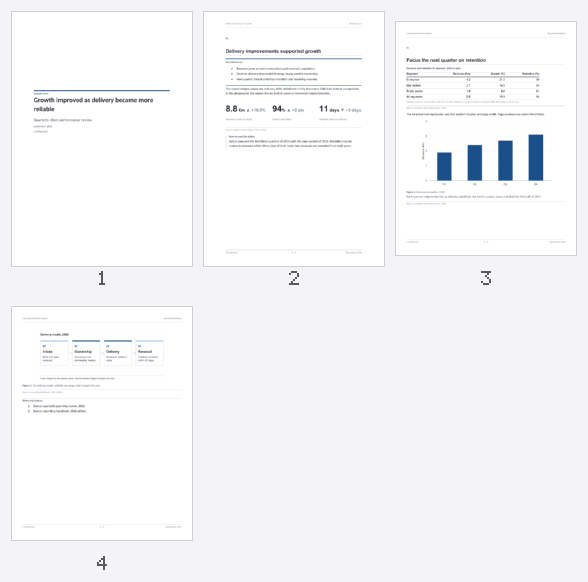
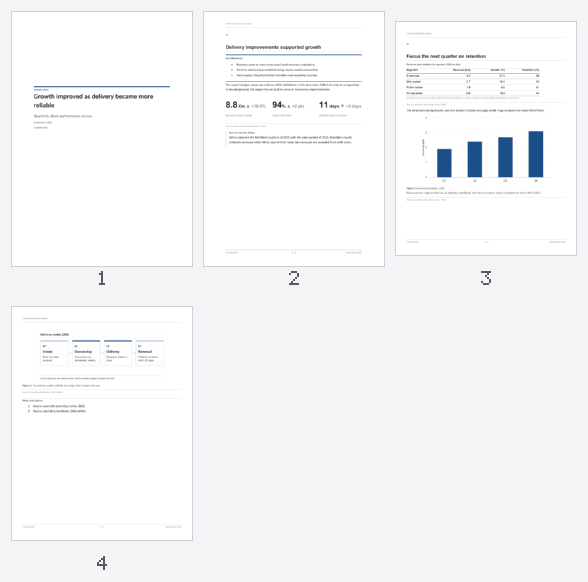
feat(docx): sections under a running head continue on the page; running head carries the title only
A section that inherits a block's header and footer no longer inherits its
page break: only the declaring section (after the cover) starts a new page,
an authored pageBreak still breaks. The running-head block drops its tracker
slot and heads every page with the document title; section-opener drops its
tracker slot and effect; the client-report blueprint stops scaffolding
{{Tracker}} markers. Goldens for the two report-chrome corpus cases move.

diff --git a/packages/core-docx/src/blocks/__tests__/report-chrome.test.ts b/packages/core-docx/src/blocks/__tests__/report-chrome.test.ts
@@ -2,8 +2,8 @@
  * The report's architecture — `cover`, `section-opener` and `running-head`
  * from the playground template — proven end to end: bounded slots reported as
  * coded issues, a cover and three openers under one running head generated
- * warning-clean on every bundled theme with the tracker following each
- * opener, and the same report rendered through LibreOffice so the tracker
+ * warning-clean on every bundled theme with the title on every page after
+ * the cover, and the same report rendered through LibreOffice so the header
  * and the `n / N` field are read off every page rather than out of the XML.
  *
  * The rendered part skips itself when LibreOffice is not on PATH;
@@ -19,8 +19,6 @@ import { promisify } from 'node:util';
 import { validateDocument } from '@json-to-office/shared-docx';
 import { generateBufferWithWarnings } from '../../core/generator';
 import { analyzeDocxQuality } from '../../quality/preflight';
-import { expandBlocks } from '../index';
-import { consultingTheme } from '../../styles';
 import { block, example, on, para, section } from './example';
 import {
   findLibreOffice,
@@ -60,7 +58,6 @@ const report = (theme: Theme) => {
       block('section-opener', {
         number: '01',
         title: 'The year in one page',
-        tracker: TRACKERS[0],
       }),
       para('Summary body.')
     ),
@@ -68,7 +65,6 @@ const report = (theme: Theme) => {
       block('section-opener', {
         number: '02',
         title: 'Results by region',
-        tracker: TRACKERS[1],
       }),
       para('Results body.')
     ),
@@ -76,7 +72,6 @@ const report = (theme: Theme) => {
       block('section-opener', {
         number: '03',
         title: 'What to do next year',
-        tracker: TRACKERS[2],
       }),
       para('Outlook body.')
     ),
@@ -123,7 +118,7 @@ describe('the report architecture blocks', () => {
       }),
       block('running-head', {
         pageNumbers: 'yes',
-        tracker: 'one two three four five six seven',
+        title: 'one two three four five six seven',
       }),
       block('section-opener', { number: 'one two three four' })
     );
@@ -138,24 +133,15 @@ describe('the report architecture blocks', () => {
         at(`${cover}/subtitle`, 'block_slot_budget'),
         at(`${cover}/logo`, 'block_slot_type'),
         at(`${head}/pageNumbers`, 'block_slot_type'),
-        at(`${head}/tracker`, 'block_slot_budget'),
+        at(`${head}/title`, 'block_slot_budget'),
         at(`${opener}/title`, 'block_required_slot'),
         at(`${opener}/number`, 'block_slot_budget'),
       ])
     );
   });
 
-  it('lets an opener without a tracker fall back to its title', () => {
-    const doc = report('consulting');
-    delete doc.children[2].children[0].props.slots.tracker;
-    const expanded = expandBlocks(doc, consultingTheme);
-    expect(expanded.document.children[2].props.header[0].props.text).toBe(
-      'Annual review\tResults by region'
-    );
-  });
-
   describe.each(THEMES)('on the %s theme', (theme) => {
-    it('generates a cover and three openers under one running head, warning-clean, the tracker following each opener', async () => {
+    it('generates a cover and three openers under one running head, warning-clean, the title on every section after the cover', async () => {
       const doc = report(theme);
       expect(validateDocument(doc).errors).toEqual([]);
       const { buffer, warnings } = await generateBufferWithWarnings(doc);
@@ -172,17 +158,18 @@ describe('the report architecture blocks', () => {
         footer: undefined,
       });
       expect(sections.slice(1).map((s) => s.header)).toEqual(
-        TRACKERS.map((tracker) => `Annual review\t${tracker}`)
+        TRACKERS.map(() => 'Annual review')
       );
       for (const { footer } of sections.slice(1)) {
         expect(footer).toMatch(
           /^Confidential\t.*\bPAGE\b.*\/.*\bNUMPAGES\b.*\tSeptember 2026$/s
         );
       }
-      // A header belongs to the page a section starts on, so every section
-      // under the running head starts a new page.
-      expect(sections.slice(1).map((s) => s.type)).toEqual(
-        TRACKERS.map(() => 'nextPage')
+      // The running head starts its section on a new page after the cover;
+      // the sections that inherit it continue on the page.
+      expect(sections[1].type).toBe('nextPage');
+      expect(sections.slice(2).map((s) => s.type)).toEqual(
+        TRACKERS.slice(1).map(() => 'continuous')
       );
     });
   });
@@ -194,7 +181,7 @@ requireIfInsisted(Boolean(soffice), 'a LibreOffice binary on PATH');
 requireIfInsisted(pdftotext, 'pdftotext');
 
 describe.skipIf(!soffice || !pdftotext)('rendered through LibreOffice', () => {
-  it('paints each section’s tracker and n / N on its own page, on every theme, and nothing on the cover', async () => {
+  it('paints the title and n / N on every page after the cover, with the sections flowing, on every theme', async () => {
     const dir = await mkdtemp(join(tmpdir(), 'jto-report-chrome-'));
     try {
       for (const theme of THEMES) {
@@ -220,7 +207,8 @@ describe.skipIf(!soffice || !pdftotext)('rendered through LibreOffice', () => {
         const pages = (await readFile(txt, 'utf8'))
           .replace(/\f$/, '')
           .split('\f');
-        expect(pages, theme).toHaveLength(4);
+        // Three one-paragraph sections share the page after the cover.
+        expect(pages, theme).toHaveLength(2);
         const [cover, ...body] = pages;
         expect(cover, theme).toContain('Growth improved');
         expect(cover, theme).not.toContain('Annual review');
@@ -230,10 +218,17 @@ describe.skipIf(!soffice || !pdftotext)('rendered through LibreOffice', () => {
           expect(page, label).toContain('Annual review');
           expect(page, label).toContain('Confidential');
           expect(page, label).toContain('September 2026');
-          expect(page, label).toContain(TRACKERS[i]);
-          expect(page, label).toMatch(new RegExp(`\\b${i + 2}\\s*/\\s*4\\b`));
-          for (const other of TRACKERS.filter((t) => t !== TRACKERS[i]))
-            expect(page, label).not.toContain(other);
+          expect(page, label).toMatch(new RegExp(`\\b${i + 2}\\s*/\\s*2\\b`));
+          // Letter-spaced display headings (vermilion) come out of pdftotext
+          // with spaces inside words, so compare without whitespace.
+          for (const title of [
+            'The year in one page',
+            'Results by region',
+            'What to do next year',
+          ])
+            expect(page.replace(/\s+/g, ''), label).toContain(
+              title.replace(/\s+/g, '')
+            );
         });
       }
     } finally {

diff --git a/packages/core-docx/src/blocks/__tests__/json-blocks.test.ts b/packages/core-docx/src/blocks/__tests__/json-blocks.test.ts
@@ -127,20 +127,18 @@ describe('JSON report blocks from playground templates', () => {
         .map((v: any) => v.props.text)
     ).toEqual(['', 'Only the title']);
   });
-  it('applies section trackers, inherited chrome and each section’s page width', () => {
+  it('inherits chrome and each section’s page width; only the declaring section breaks the page', () => {
     const expanded = expandBlocks(example(), consultingTheme);
     expect(expanded.document.children[0].props.header).toBeUndefined();
     const report = expanded.document.children[1];
     const letter = expanded.document.children[2];
-    expect(report.props.header[0].props.text).toBe(
-      'Client performance report\tPerformance'
-    );
-    expect(letter.props.header[0].props.text).toBe(
-      'Client performance report\tRecommendations'
-    );
-    expect(letter.props.header[0].props.tabStops[0].position).toBe(10800);
+    expect(report.props.header[0].props.text).toBe('Client performance report');
+    expect(letter.props.header[0].props.text).toBe('Client performance report');
     expect(letter.props.footer[1].props.tabStops[0].position).toBe(5400);
-    expect(letter.props.pageBreak).toBe(true);
+    // The running head starts its own section on a new page (after the
+    // cover); a section that merely inherits it continues on the page.
+    expect(report.props.pageBreak).toBe(true);
+    expect(letter.props.pageBreak).toBeUndefined();
   });
   it('honors authored section parts and page breaks', () => {
     const input = example();
@@ -188,7 +186,7 @@ describe('JSON report blocks from playground templates', () => {
       .join('');
     expect(main).toContain('Growth improved');
     expect(main).toContain('Heading1');
-    expect(headers).toContain('Recommendations');
+    expect(headers).toContain('Client performance report');
     expect(footers).toContain('PAGE');
     expect(footers).toContain('NUMPAGES');
   });

diff --git a/packages/core-docx/src/__tests__/fixtures/corpus-blocks.ts b/packages/core-docx/src/__tests__/fixtures/corpus-blocks.ts
@@ -152,10 +152,10 @@ export const CASES: CorpusCase[] = [
   // --------------------------------------------------------------------------
   {
     // A cover in its own section, then two sections under one running head:
-    // the tracker follows each opener, the footer carries n / N and the date,
-    // and the cover section stays chrome-free. Every value is the house
-    // recipe's: display title over a 3pt accent rule, tracker role in the
-    // header, footer role in the footer, hairlines in `rule`.
+    // the title heads every page, the sections flow, the footer carries n / N
+    // and the date, and the cover section stays chrome-free. Every value is
+    // the house recipe's: display title over a 3pt accent rule, tracker role
+    // in the header, footer role in the footer, hairlines in `rule`.
     name: 'blocks/report-chrome-consulting',
     document: doc(
       [
@@ -210,7 +210,6 @@ export const CASES: CorpusCase[] = [
               slots: {
                 number: '02',
                 title: 'Results by region',
-                tracker: 'Results',
               },
             },
           },
@@ -271,7 +270,6 @@ export const CASES: CorpusCase[] = [
           props: {
             ref: 'running-head',
             slots: {
-              tracker: 'Appendix',
               pageNumbers: false,
               confidentiality: 'Internal',
             },

diff --git a/packages/core-docx/src/blocks/document.ts b/packages/core-docx/src/blocks/document.ts
@@ -256,6 +256,12 @@ function finishDocxBlocks<T>(
         ? { ...section.props }
         : {};
       if (chrome) {
+        // A following section inherits the header and footer, not the page
+        // break: the running head belongs to every page, the break only to
+        // the section that declared it (after a cover). Sections under one
+        // running head continue on the page unless the theme or the author
+        // breaks them.
+        const declaring = local.includes(chrome);
         const environment = {
           ...chrome.environment,
           context: {
@@ -278,7 +284,7 @@ function finishDocxBlocks<T>(
           );
           props[part] = evaluator.expand(compiled, `${path}/props/${part}`);
         }
-        if (props.pageBreak === undefined)
+        if (props.pageBreak === undefined && declaring)
           props.pageBreak = chrome.settings.pageBreak ?? true;
       }
       // A local explicit state-setting page break is useful without any chrome.

diff --git a/packages/core-docx/src/__tests__/fixtures/corpus-goldens.ts b/packages/core-docx/src/__tests__/fixtures/corpus-goldens.ts
@@ -27,9 +27,9 @@ export const CORPUS_GOLDENS: Readonly<Record<string, string>> = {
   'blocks/report-data-fallback':
[1 lines of base64/hex data omitted]
   'blocks/report-chrome-fallback':
[2 lines of base64/hex data omitted]
   'blocks/report-chrome-consulting':
[2 lines of base64/hex data omitted]
   'blocks/key-takeaways-fallback':
[1 lines of base64/hex data omitted]
   'blocks/key-takeaways-consulting':

diff --git a/packages/core-docx/src/quality/rules.ts b/packages/core-docx/src/quality/rules.ts
@@ -946,7 +946,7 @@ export const docxRunningHeadRule: QualityRule<
               `${profile?.id ?? 'selected'} profile expects a running head ` +
               `on every section after the cover.`,
             suggestion:
-              'Invoke a running-head block at the top of the first body section: its section effect fills every later section with the tracker and n / N.',
+              'Invoke a running-head block at the top of the first body section: its section effect fills every later section with the title and n / N.',
             context: { section: fact.index, missing },
           },
         ];

diff --git a/docs/reference/blocks.md b/docs/reference/blocks.md
@@ -120,7 +120,7 @@ DOCX repetition adapts content through ordinary flow/columns without shrinking t
 
 A DOCX definition may declare `section: { tracker?, header?, footer?, pageBreak?, scope? }`. Author invocations with section effects directly in a top-level section body. Nested composition may pass through transparent groups, but cannot install section state from columns, table cells or header/footer regions.
 
-The engine resolves local trackers before chrome. `scope: "following"` carries the declared header/footer effect to later sections; default scope is local. Header/footer bindings see the receiving section’s page dimensions and `/section/tracker`, while retaining the declaring invocation’s slots. Last local tracker/chrome declaration wins. Explicit section `header`, `footer` and `pageBreak` take precedence. Chrome defaults to a section page break; explicit `false` remains respected. Existing `{PAGE}` / `{NUMPAGES}` paragraph fields stay native Word fields.
+The engine resolves local trackers before chrome. `scope: "following"` carries the declared header/footer effect to later sections; default scope is local. Header/footer bindings see the receiving section’s page dimensions and `/section/tracker`, while retaining the declaring invocation’s slots. Last local tracker/chrome declaration wins. Explicit section `header`, `footer` and `pageBreak` take precedence. The declaring section defaults to a page break; a section that inherits chrome does not, so sections under one running head continue on the page unless the theme or the author breaks them (a header can only change at a page boundary, so chrome that varies per section needs `pageBreak: true` on each). Existing `{PAGE}` / `{NUMPAGES}` paragraph fields stay native Word fields.
 
 The playground demonstrates `cover`, `key-takeaways`, `section-opener`, `running-head`, `kpi-row`, `callout`, `data-table`, `chart-figure`, `figure`, `footnotes` and the `source-line` the data and figure blocks invoke. These are names in that document, not registered engine components. General document operations remain engine code; visual compositions remain JSON.
 
@@ -128,14 +128,14 @@ A [blueprint](/reference/blueprints) assembles these invocations into a whole-do
 
 ### The report blocks
 
-Every definition in `client-report-blocks.docx.json` binds its sizes and colours to the theme's type roles and chrome recipes with a safe default, so the same JSON renders on every bundled theme; the previews below are the house theme, rendered through LibreOffice. A report built from a cover, three section openers and one running head is generated on all four bundled themes in the test suite, warning-clean, and rendered through LibreOffice where one is installed: every page after the cover carries its own section's tracker and a live `n / N`, and the cover carries neither.
+Every definition in `client-report-blocks.docx.json` binds its sizes and colours to the theme's type roles and chrome recipes with a safe default, so the same JSON renders on every bundled theme; the previews below are the house theme, rendered through LibreOffice. A report built from a cover, three section openers and one running head is generated on all four bundled themes in the test suite, warning-clean, and rendered through LibreOffice where one is installed: every page after the cover carries the document title and a live `n / N`, the sections flow onto one another, and the cover carries neither.
 
 | Block            | Slots                                                                                                                                     | What the definition decides                                                                                                                                                                                                                                                                                                                                           |
 | ---------------- | ----------------------------------------------------------------------------------------------------------------------------------------- | --------------------------------------------------------------------------------------------------------------------------------------------------------------------------------------------------------------------------------------------------------------------------------------------------------------------------------------------------------------------- |
 | `cover`          | title, subtitle, client, date, confidentiality, logo                                                                                      | The cover recipe's rule about a third of the way down the page (22% of the body height, after the logo when there is one); the client in the eyebrow role, the title in display, subtitle, then date and confidentiality in the label role, each absent when its slot is                                                                                              |
 | `key-takeaways`  | label, items 3–5 of ≤ 25 words                                                                                                            | The key-takeaways recipe's rule, label role, hairline                                                                                                                                                                                                                                                                                                                 |
-| `section-opener` | number, title, tracker                                                                                                                    | Eyebrow number, a real level-1 heading, the section tracker the running head reads                                                                                                                                                                                                                                                                                    |
-| `running-head`   | title ≤ 6 words, tracker ≤ 3, confidentiality ≤ 4, date ≤ 3, pageNumbers                                                                  | Header `title · tracker` and footer `confidentiality · n / N · date` in the tracker and footer roles, inherited by later sections                                                                                                                                                                                                                                     |
+| `section-opener` | number, title                                                                                                                             | Eyebrow number and a real level-1 heading                                                                                                                                                                                                                                                                                                                             |
+| `running-head`   | title ≤ 6 words, confidentiality ≤ 4, date ≤ 3, pageNumbers                                                                               | Header `title` and footer `confidentiality · n / N · date` in the tracker and footer roles, inherited by later sections, which continue on the page                                                                                                                                                                                                                   |
 | `kpi-row`        | items 2–4 of value ≤ 7 and unit ≤ 5 characters, label, delta, trend; source                                                               | Equal columns of `statistic` (a size smaller when there are four), the delta and its glyph beside the figure, a sourced hairline that collapses with the source                                                                                                                                                                                                       |
 | `callout`        | label (default "Note"), text ≤ 60 words                                                                                                   | One hairline down the left in the theme rule colour, no fill; the label role over body text                                                                                                                                                                                                                                                                           |
 | `data-table`     | title, labelHeader, labels 1–24, columns 1–5 of header ≤ 14 characters, cells ≤ 10 characters 1–24, numeric (default true); notes, source | A label column at 22% of the measure, then data columns right-aligned header and cells; rows never split across pages and the header repeats; the row bound keeps the table on one page with its header; notes and source through the shared `source-line` block. Rounding stays the author's, and `W_QUALITY_TABLE_MIXED_DECIMALS` reports a slip at the column slot |

diff --git a/docs/architecture/office-renderer-ir.md b/docs/architecture/office-renderer-ir.md
@@ -805,11 +805,12 @@ previous implementation finds what a feature checklist does not.
 
 ### DOCX
 
-| Change                                                                                | Why                                                                                                                                                                                                                                                                                                                                                                                                                                                                                                                                           |
-| ------------------------------------------------------------------------------------- | --------------------------------------------------------------------------------------------------------------------------------------------------------------------------------------------------------------------------------------------------------------------------------------------------------------------------------------------------------------------------------------------------------------------------------------------------------------------------------------------------------------------------------------------- |
-| A header or footer whose components are all `enabled: false` breaks link-to-previous. | It used to compile to no part at all, which is how Word spells "inherit", so a section that explicitly disabled its chrome showed the previous section's — stale or confidential content included. Disabling everything is a statement about this section, exactly like an explicit empty array.                                                                                                                                                                                                                                              |
-| An SVG in a first-page or even-page part ships a real raster fallback.                | The adapter's image walk read only the `default` chrome slot, so such an SVG got its own bytes labelled `image/png` as the fallback, and the section options dropped the part outright.                                                                                                                                                                                                                                                                                                                                                       |
-| A shape-mode `text-box` keeps its padding and its border colour on `office-open`.     | The adapter spelled the insets `topInset`/`bottomInset`/`leftInset`/`rightInset` and nested the outline colour under `outline.fill`. `a:bodyPr` takes `lIns`/`tIns`/`rIns`/`bIns` (or a `margins` object), and `OutlineOptions` carries its colour at the top level — no `*Inset` key exists anywhere in the package, and a nested `fill` is ignored. Both values were accepted and then dropped, so every shape text box drew with default insets and a default-coloured border. `docxjs` always had them right; the two backends now agree. |
+| Change                                                                                                                                                       | Why                                                                                                                                                                                                                                                                                                                                                                                                                                                                                                                                           |
+| ------------------------------------------------------------------------------------------------------------------------------------------------------------ | --------------------------------------------------------------------------------------------------------------------------------------------------------------------------------------------------------------------------------------------------------------------------------------------------------------------------------------------------------------------------------------------------------------------------------------------------------------------------------------------------------------------------------------------- |
+| A section that inherits a block's running head no longer inherits its page break (`blocks/report-chrome-consulting`, `blocks/report-chrome-fallback` moved). | A header can only change at a page boundary, and the tracker in the house running head varied per section, so every section under it started a new page and a short section left most of its page blank. The `running-head` block now heads every page with the document title alone, and only the declaring section (after the cover) breaks the page; the following sections continue on it as `continuous` section breaks with identical, inherited chrome. An authored `pageBreak: true` still breaks.                                    |
+| A header or footer whose components are all `enabled: false` breaks link-to-previous.                                                                        | It used to compile to no part at all, which is how Word spells "inherit", so a section that explicitly disabled its chrome showed the previous section's — stale or confidential content included. Disabling everything is a statement about this section, exactly like an explicit empty array.                                                                                                                                                                                                                                              |
+| An SVG in a first-page or even-page part ships a real raster fallback.                                                                                       | The adapter's image walk read only the `default` chrome slot, so such an SVG got its own bytes labelled `image/png` as the fallback, and the section options dropped the part outright.                                                                                                                                                                                                                                                                                                                                                       |
+| A shape-mode `text-box` keeps its padding and its border colour on `office-open`.                                                                            | The adapter spelled the insets `topInset`/`bottomInset`/`leftInset`/`rightInset` and nested the outline colour under `outline.fill`. `a:bodyPr` takes `lIns`/`tIns`/`rIns`/`bIns` (or a `margins` object), and `OutlineOptions` carries its colour at the top level — no `*Inset` key exists anywhere in the package, and a nested `fill` is ignored. Both values were accepted and then dropped, so every shape text box drew with default insets and a default-coloured border. `docxjs` always had them right; the two backends now agree. |
 
 | A `statistic` renders its `unit`, `size`, `trend` and `trendValue`, under two styles the document now defines. | All four props were declared, accepted by the schema and read by nothing: `{ "number": "99", "unit": "%" }` rendered `99`, and the shipped `docx-report` starter lost its percent sign with no diagnostic anywhere in the pipeline. The two paragraphs also named `StatisticNumber` and `StatisticDescription`, which no theme and no generator ever defined — an undefined `w:pStyle` resolves to Normal in silence, so the component purpose-built for KPIs set at body size and weight. The styles are appended only to documents that contain a statistic, so nothing else moved. `format` stays unimplemented and now warns (`W_STATISTIC_FORMAT_IGNORED`) rather than vanishing. |
 | A body paragraph or list item directly under a table gets 120 twips above it. | OOXML gives a table no space-after — the property does not exist — so the block below one drew hard against its bottom rule. A heading was already spaced by its own style and is left alone; only styles that contribute nothing of their own are topped up. |

diff --git a/docs/guide/writing-docx.md b/docs/guide/writing-docx.md
@@ -179,7 +179,7 @@ A later section can reuse the previous section's header or footer by passing the
 
 Open the **client-report-blocks.docx.json** playground template for a complete report with inline definitions for cover, takeaways, section openers, running heads and an adaptive metric row. Copy its `props.blocks` definitions along with the invocations you use. These names are template examples, not engine components.
 
-A running-head definition supplies general `section.header` / `section.footer` effects with `scope: "following"`. Each section-opener updates `section.tracker`; inherited chrome resolves the current tracker and section page width. An authored section header, footer or page-break setting takes precedence. Keep the cover in its own earlier section to omit the running head there.
+A running-head definition supplies general `section.header` / `section.footer` effects with `scope: "following"`. Inherited chrome resolves the receiving section's page width; the sections that inherit it continue on the page, only the declaring section starts a new one. An authored section header, footer or page-break setting takes precedence. Keep the cover in its own earlier section to omit the running head there.
 
 ```json
 {

diff --git a/.changeset/sections-flow.md b/.changeset/sections-flow.md
@@ -1,0 +1,7 @@
+---
+'@json-to-office/core-docx': minor
+'@json-to-office/jto': minor
+'@json-to-office/mcp-server': minor
+---
+
+Sections under one running head now continue on the page. A section that inherits a block's header and footer no longer inherits its page break; only the declaring section (the first body section, after the cover) starts a new page, and an authored `pageBreak: true` still breaks. The `running-head` block in `client-report-blocks.docx.json` heads every page with the document title alone and drops its `tracker` slot; `section-opener` drops its `tracker` slot and section effect (the tracker was only ever read by the header, which can change only at a page boundary and so forced one section per page). The `client-report` blueprint no longer scaffolds `{{Tracker}}` markers.
